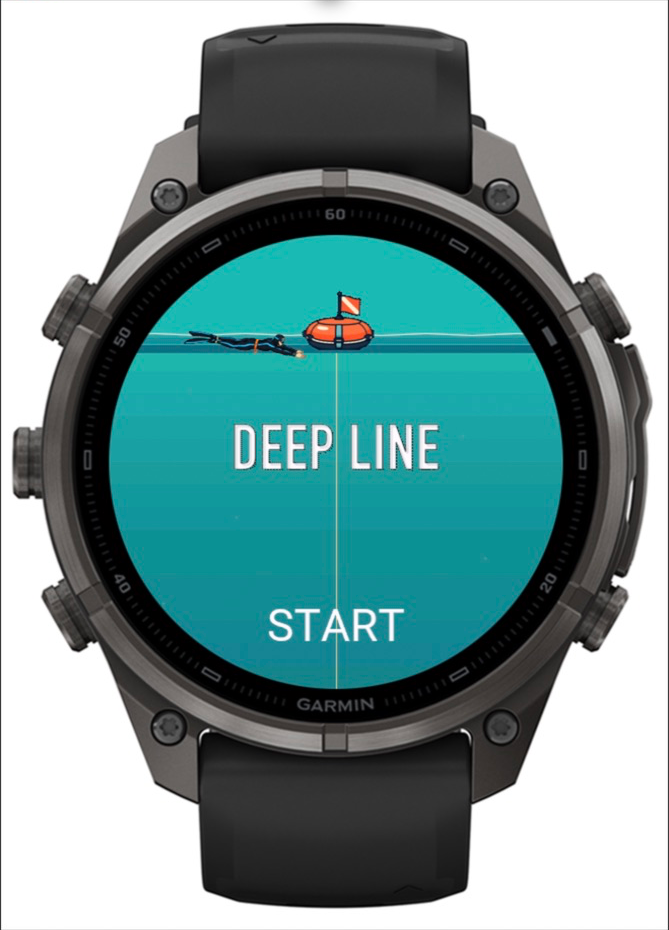
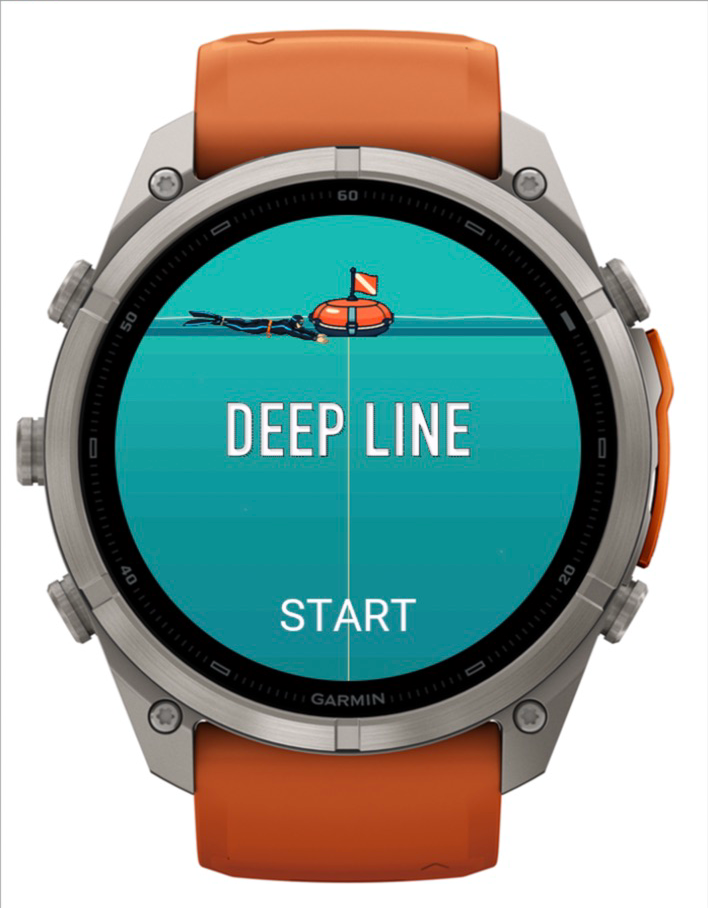
Refresh store screenshots for large AMOLED

diff --git a/store/assets/screenshots/README.md b/store/assets/screenshots/README.md
@@ -7,11 +7,12 @@ limit.
 
 Recommended order:
 
-1. `01-title-amoled.jpg` — title screen on fēnix 9 Pro 47 mm AMOLED.
-2. `02-campaign-amoled.jpg` — sea and depth selection on fēnix 9 Pro.
-3. `03-gameplay-amoled.jpg` — equalization timing on fēnix 9 Pro.
-4. `04-deep-gameplay-amoled.jpg` — deeper Sea of Cortez gameplay at 6.2 m,
-   with the turtle encounter and the 10 m tag visible.
+1. `01-title-amoled.jpg` — title screen on fēnix 9 Pro 51 mm AMOLED.
+2. `02-campaign-amoled.jpg` — sea and depth selection on fēnix 9 Pro 51 mm.
+3. `03-gameplay-amoled.jpg` — Sea of Cortez gameplay at 3.4 m, with the turtle
+   encounter and the native 466 px diver sprites visible.
+4. `04-deep-gameplay-amoled.jpg` — deeper Sea of Cortez gameplay at 7.8 m,
+   with the 10 m tag visible.
 5. `05-gameplay-mip.jpg` — gameplay on a fēnix MIP display.
 
 Full captures, PNG masters and optional rejected screenshots live in
